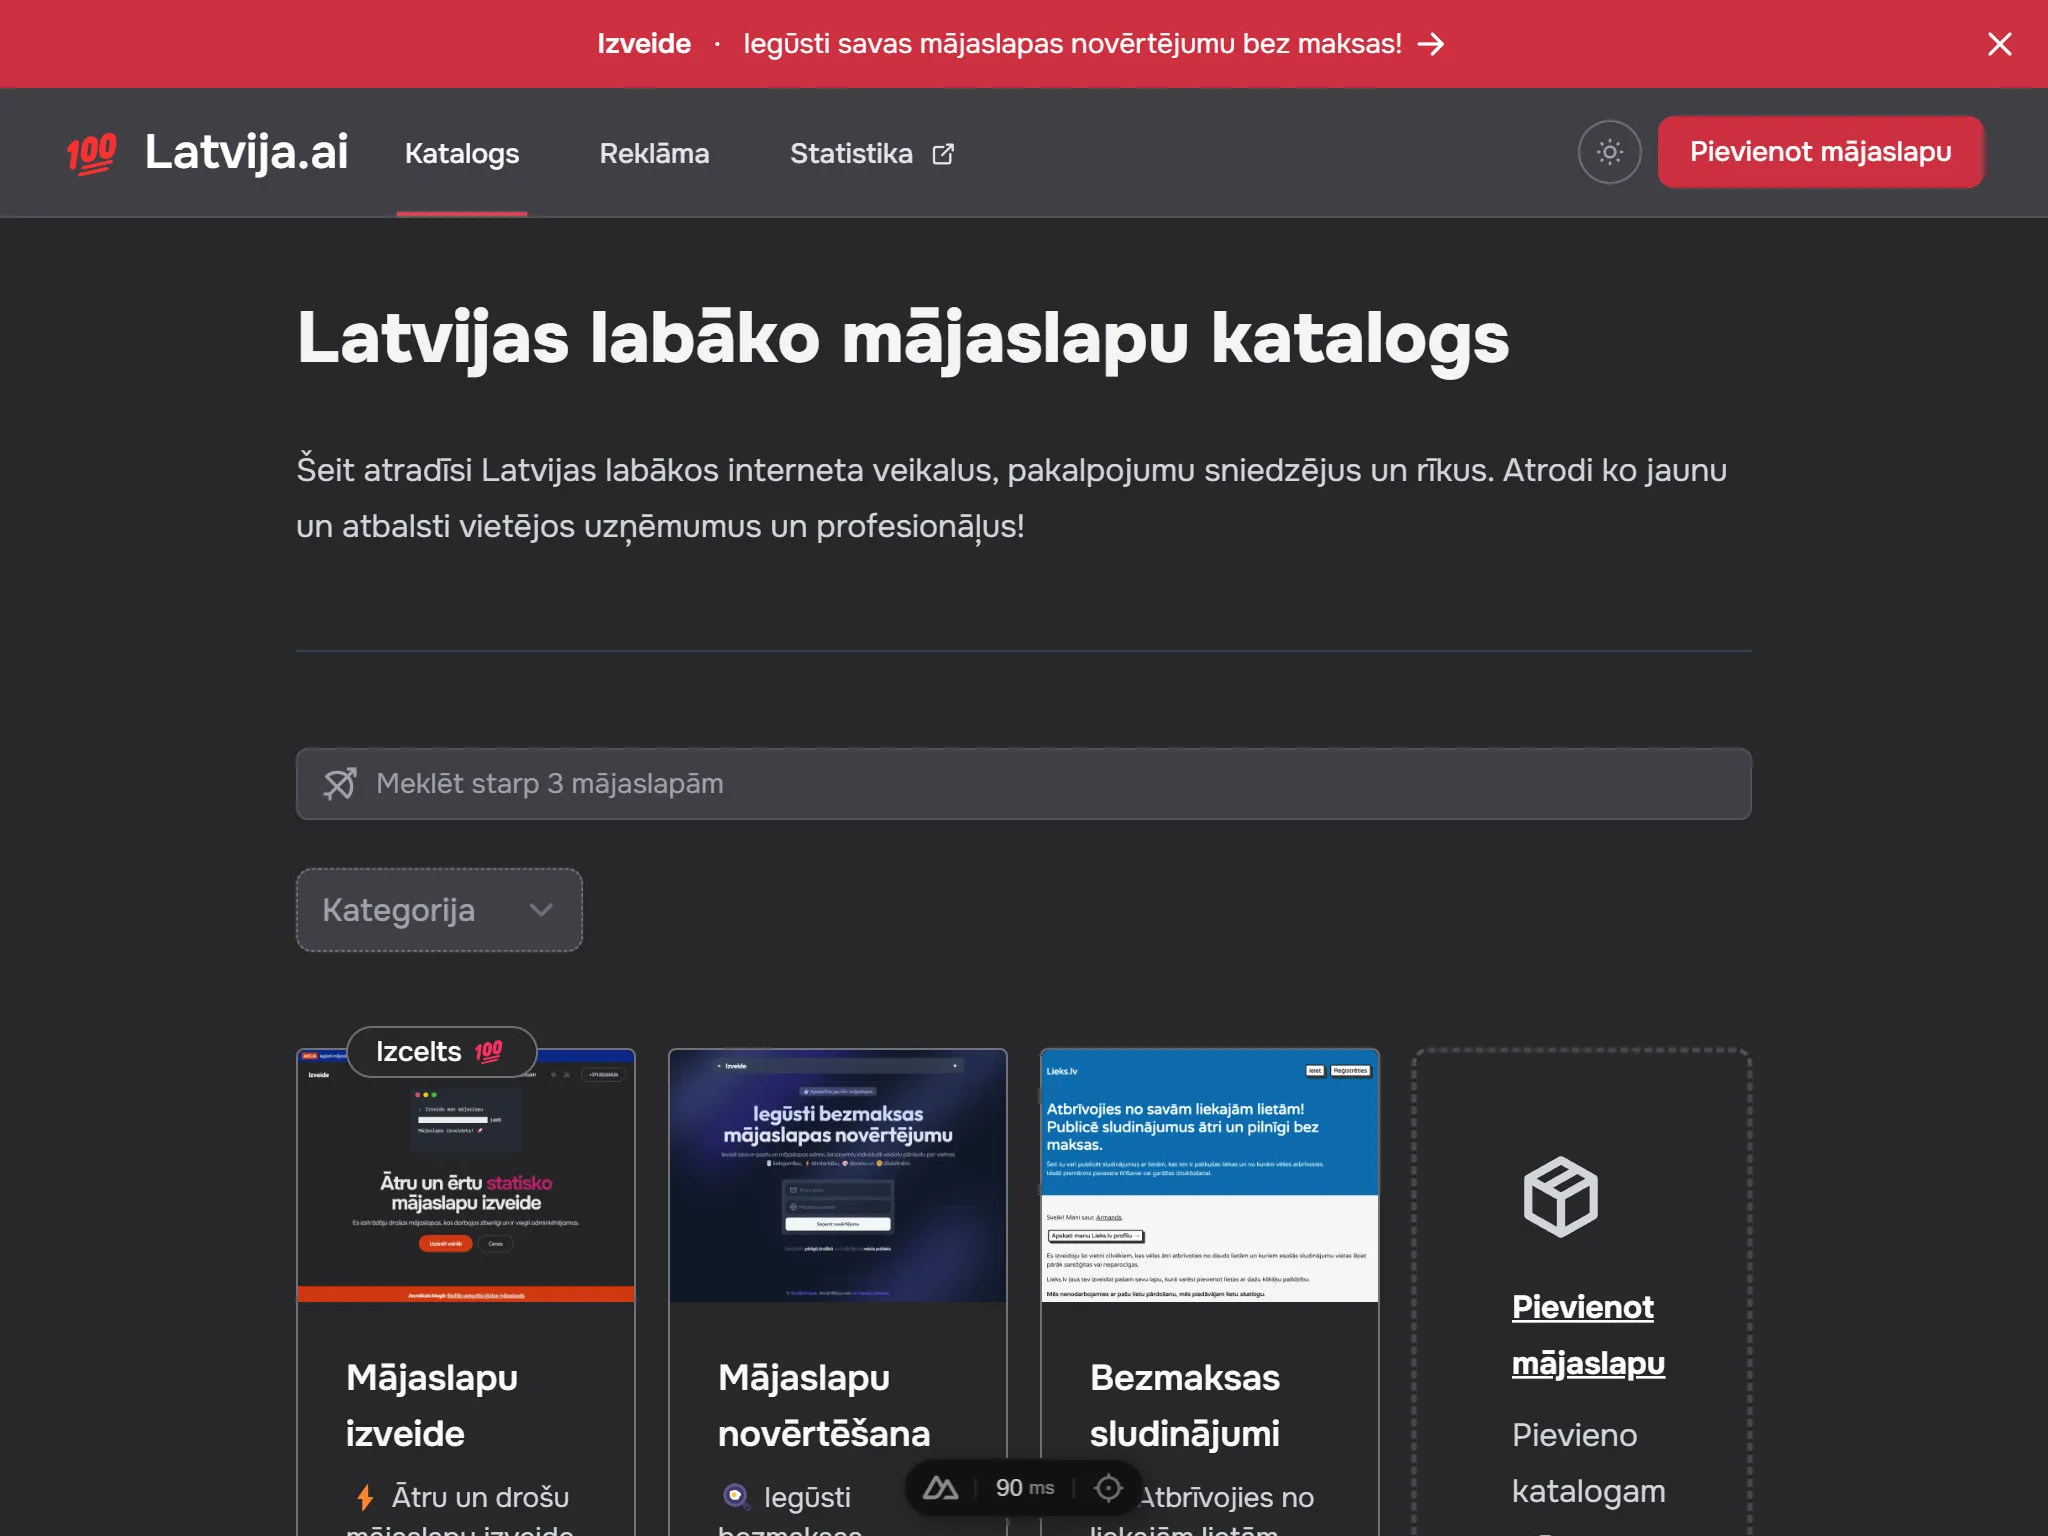
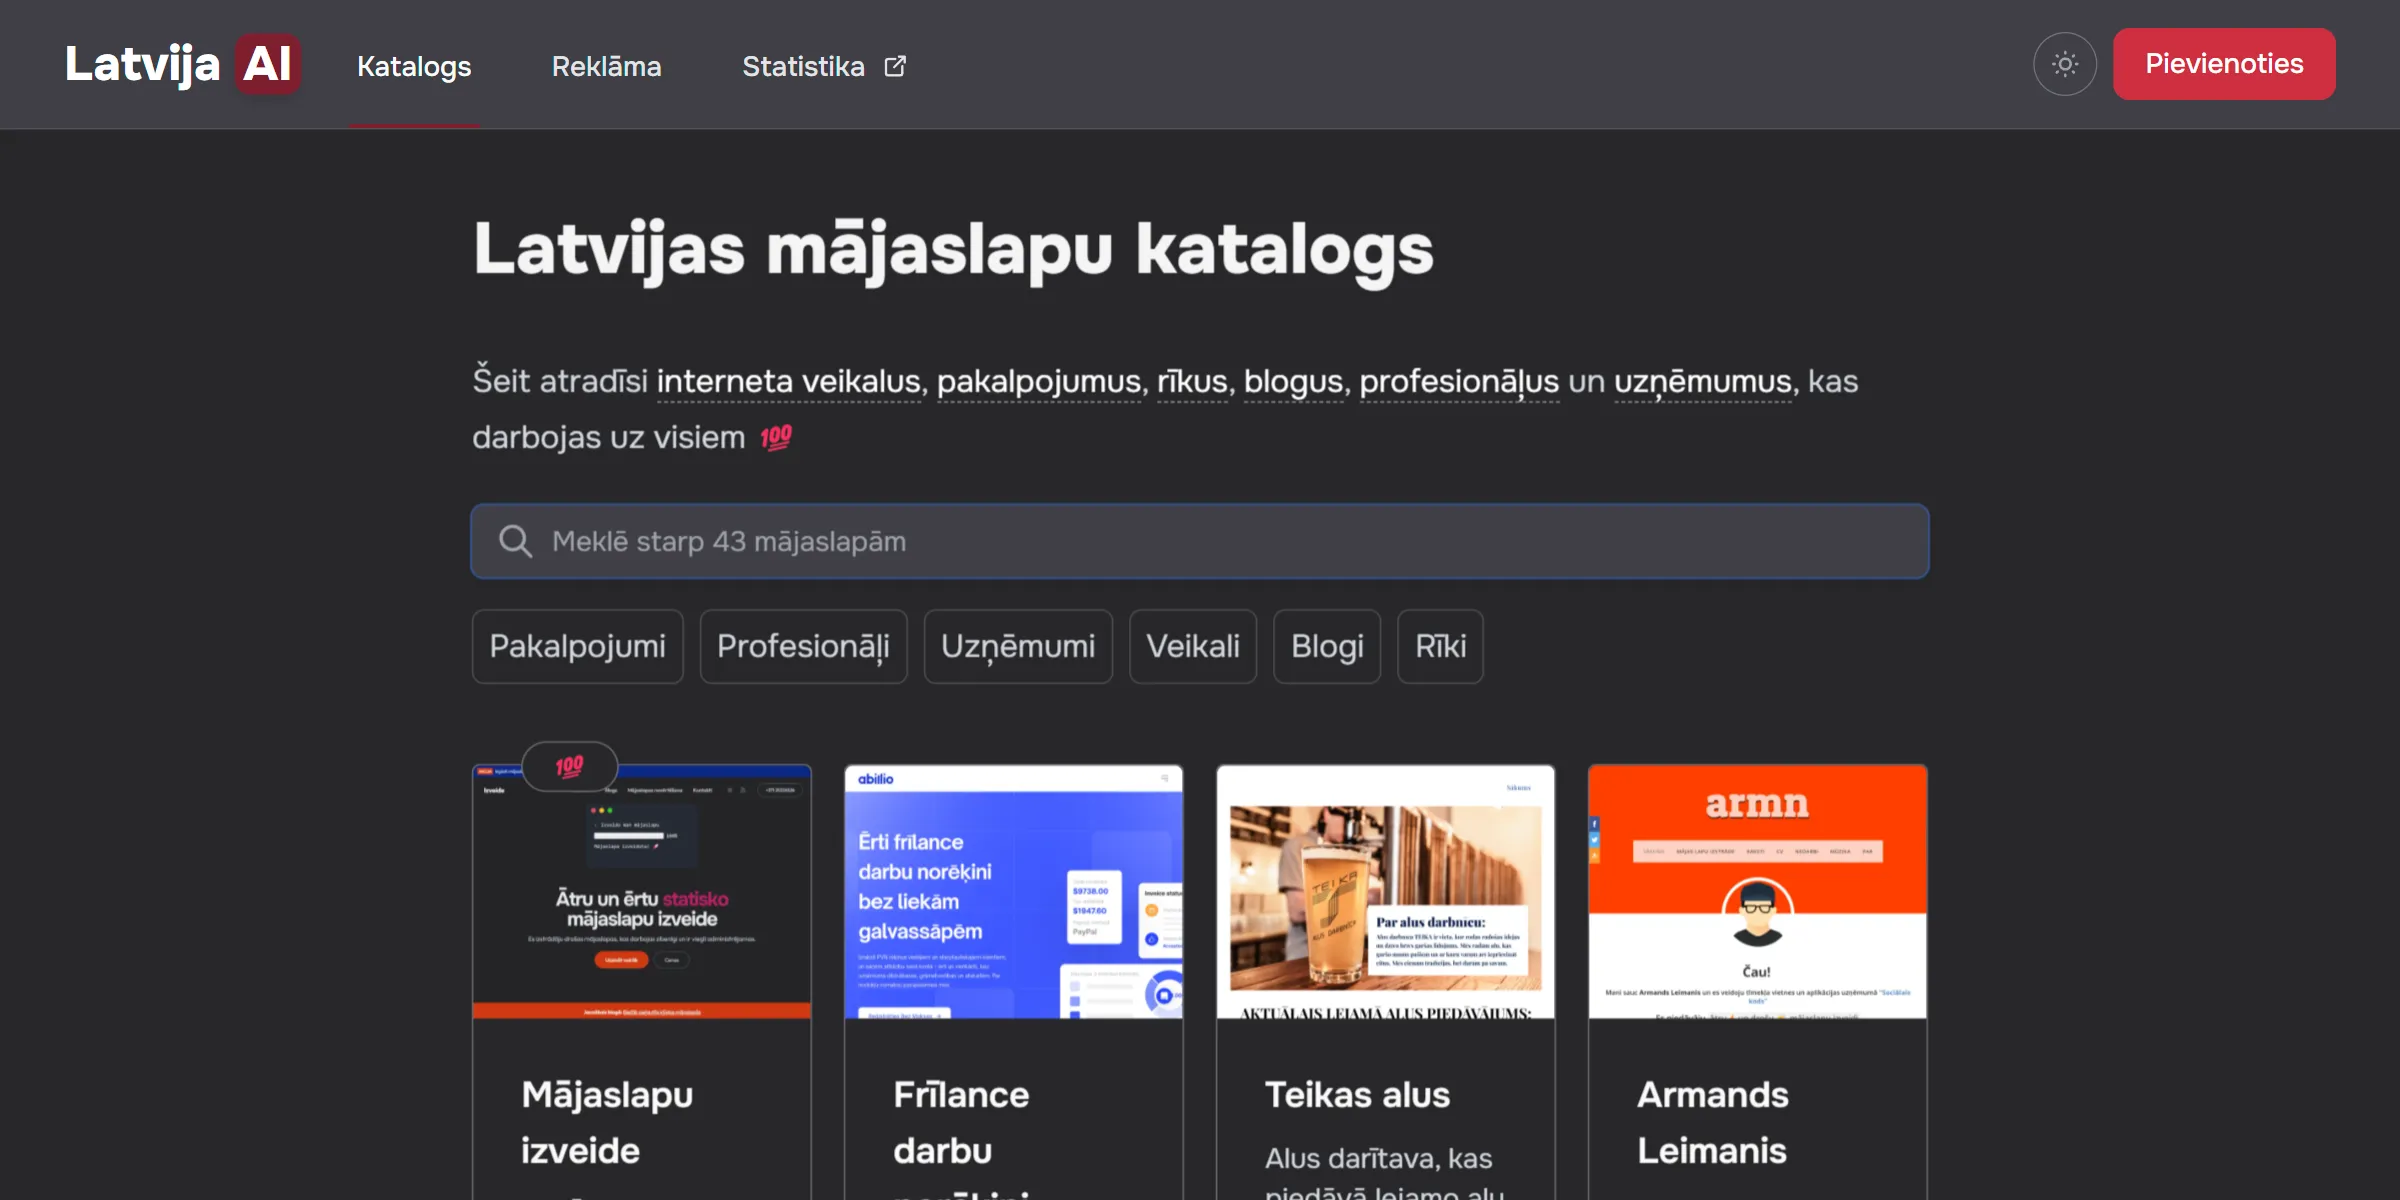
Updates

diff --git a/components/app/Navbar.vue b/components/app/Navbar.vue
@@ -68,7 +68,7 @@ const routesRef = computed(() => {
                 class="inline-flex gap-2 items-center border-b-2 px-1 pt-1 text-sm font-medium"
                 :class="
                   navItem.active
-                    ? 'border-primary-500 text-gray-900 dark:text-gray-50'
+                    ? 'border-primary-900 text-gray-900 dark:text-gray-50'
                     : 'border-transparent hover:border-gray-300 dark:hover:border-gray-500 hover:text-gray-700 text-gray-500 dark:text-gray-200'
                 "
               >
@@ -101,7 +101,7 @@ const routesRef = computed(() => {
             />
             <NuxtLink
               :to="config?.actionButton?.href"
-              class="hidden md:block text-white bg-primary-700 hover:bg-primary-800 focus:ring-4 focus:outline-none focus:ring-primary-300 font-medium rounded-lg text-sm px-4 py-2 text-center dark:bg-primary-600 dark:hover:bg-primary-700 dark:focus:ring-primary-800"
+              class="hidden md:block text-white bg-primary-900 hover:bg-primary-800 focus:ring-4 focus:outline-none focus:ring-primary-300 font-medium rounded-lg text-sm px-4 py-2 text-center dark:bg-primary-600 dark:hover:bg-primary-700 dark:focus:ring-primary-800"
             >
               {{ config?.actionButton?.text }}
             </NuxtLink>

diff --git a/pages/[...all].vue b/pages/[...all].vue
@@ -1,5 +1,5 @@
 <script setup lang="ts">
-import { callWithNuxt } from '#app';
+import { callWithNuxt } from "#app";
 
 const config = useAppConfig();
 const app = useNuxtApp();
@@ -11,16 +11,18 @@ function getSEOTitle(): string {
 }
 
 function getSEODescription(): string {
-  return page?.value?.description || config.site.description || "Missing Description"
+  return (
+    page?.value?.description || config.site.description || "Missing Description"
+  );
 }
 
-callWithNuxt(app, useSeoMeta, [{ title: getSEOTitle(), description: getSEODescription() }]);
+callWithNuxt(app, useSeoMeta, [
+  { title: getSEOTitle(), description: getSEODescription() },
+]);
 
 if (page.value) {
   defineOgImage({
-    component: page.value.ogImageStyle || 'Custom',
-    cover: page.value.cover || page.value.card_image,
-    ...(page.value.ogImage || {}),
+    url: "/latvija.ai.webp",
   });
 }
 </script>

diff --git a/components/app/Logo.vue b/components/app/Logo.vue
@@ -11,14 +11,17 @@ const config = useAppConfig();
       class="h-8"
       :alt="`${config?.general.title} logo`"
     />
-    <Icon
+    <!-- <Icon
       v-else-if="config?.general?.iconLogo"
       class="w-7 h-7 text-gray-600 dark:text-white"
       :name="config?.general?.iconLogo"
-    />
+    /> -->
     <span
-      class="self-center text-2xl font-semibold whitespace-nowrap dark:text-white"
-      >{{ config.general.title }}</span
+      class="self-center text-2xl font-extrabold whitespace-nowrap dark:text-white"
+      >Latvija
+      <span class="bg-primary-900 px-1 text-white shadow-md rounded-lg"
+        >AI</span
+      ></span
     >
   </NuxtLink>
 </template>

diff --git a/app.config.ts b/app.config.ts
@@ -1,4 +1,4 @@
-import type Emoji from "./components/OgImage/Emoji.vue";
+// import type Emoji from "./components/OgImage/Emoji.vue";
 
 export default defineAppConfig({
   general: {
@@ -15,13 +15,13 @@ export default defineAppConfig({
     url: "https://latvija.ai",
     favicon: {
       image: "",
-      emoji: "💯",
+      emoji: "❤🩹",
     },
   },
   directory: {
     search: {
-      placeholder: "Meklēt starp {0} mājaslapām",
-      icon: "tabler:bow",
+      placeholder: "Meklē starp {0} mājaslapām",
+      icon: "tabler:search",
       tags: {
         // options: none,select,show-all,
         display: "show-all",

diff --git a/components/ui/Card.vue b/components/ui/Card.vue
@@ -26,7 +26,7 @@ defineProps(["item"]);
       sizes="400px"
       :alt="`${item.title}`"
       class="w-full rounded-t object-cover"
-      lazy
+      loading="lazy"
       :src="item.card_image ?? '/logo.png'"
     />
     <div
@@ -39,7 +39,7 @@ defineProps(["item"]);
       <h3 class="m-0 text-lg font-semibold dark:text-gray-50">
         {{ item.title }}
       </h3>
-      <p class="line-clamp-4 mt-2 text-sm">
+      <p class="mt-2 text-sm">
         {{ item.description }}
       </p>
       <div class="p-0 mt-2 font-bold flex-wrap">

diff --git a/components/app/header/Banner.vue b/components/app/header/Banner.vue
@@ -20,7 +20,7 @@ function removeBanner() {
 <template>
   <div
     v-show="showBanner && bannerConfig?.show"
-    class="flex items-center justify-center gap-x-6 bg-primary-600 px-6 py-2.5 sm:px-3.5 sm:before:flex-1"
+    class="flex items-center justify-center gap-x-6 bg-primary-900 px-6 py-2.5 sm:px-3.5 sm:before:flex-1"
   >
     <p class="text-sm leading-6 text-white">
       <a :href="href" target="_blank" class="inline-flex items-center gap-1">

diff --git a/components/ui/tag/Grid.vue b/components/ui/tag/Grid.vue
@@ -12,7 +12,7 @@ const { selectedTags, toggleTagByName } = useTags();
       class="border rounded-md px-2 py-1 hover:bg-gray-50 dark:hover:bg-gray-900 dark:border-gray-600 cursor-pointer select-none"
       :class="
         selectedTags.includes(tag.name)
-          ? 'border-primary-500 dark:border-primary-300'
+          ? 'border-primary-900 dark:border-primary-600'
           : ''
       "
       @click="toggleTagByName(tag.name)"

diff --git a/tailwind.config.ts b/tailwind.config.ts
@@ -16,7 +16,7 @@ export default {
           '100': '#fce9e7',
           '200': '#f9d2d2',
           '300': '#f4aead',
-          '400': '#ee7e80',
+          '400': '#7d1e2f',
           '500': '#e35057',
           '600': '#ce3040',
           '700': '#ae2233',

diff --git a/pages/tags/[slug].vue b/pages/tags/[slug].vue
@@ -44,9 +44,7 @@ useSeoMeta({
 });
 
 defineOgImage({
-  component: "Custom",
-  title: title.value,
-  description: description.value,
+  url: "/latvija.ai.webp",
 });
 
 definePageMeta({

diff --git a/content/index.md b/content/index.md
@@ -1,12 +1,11 @@
 ---
 layout: wide
+cover: /latvija.ai.webp
 ---
 
 # Latvijas mājaslapu katalogs
 
 Šeit atradīsi <a href="/tags/veikali">interneta veikalus</a>, <a href="/tags/pakalpojumi">pakalpojumus</a>, <a href="/tags/riki">rīkus</a>, <a href="/tags/blogi">blogus</a>, <a href="/tags/profesionali">profesionāļus</a> un <a href="/tags/uznemumi">uzņēmumus</a>, kas darbojas uz visiem 💯
-
----
 
 ::search
 ::

diff --git a/content/dir/recepsukolekcionars.md b/content/dir/recepsukolekcionars.md
@@ -8,4 +8,4 @@ card_image: /recepsukolekcionars.lv.webp
 
 # Recepšu kolekcionārs
 
-Mūsdienīgas un ilgtspējīgas virtuves dizaina papīrlietas, tekstils un dāvanas.
+Mūsdienīgas un ilgtspējīgas virtuves dizaina papīrlietas, tekstils un dāvanas

diff --git a/content/pievienoties.md b/content/pievienoties.md
@@ -1,9 +1,7 @@
 ---
 layout: default
 title: Pievienoties
-ogImageStyle: Emoji
-ogImage:
-  emoji: ➕
+cover: /latvija.ai.webp
 ---
 
 # Iegūsti jaunus klientus, pievienojoties modernākajam mājaslapu katalogam
